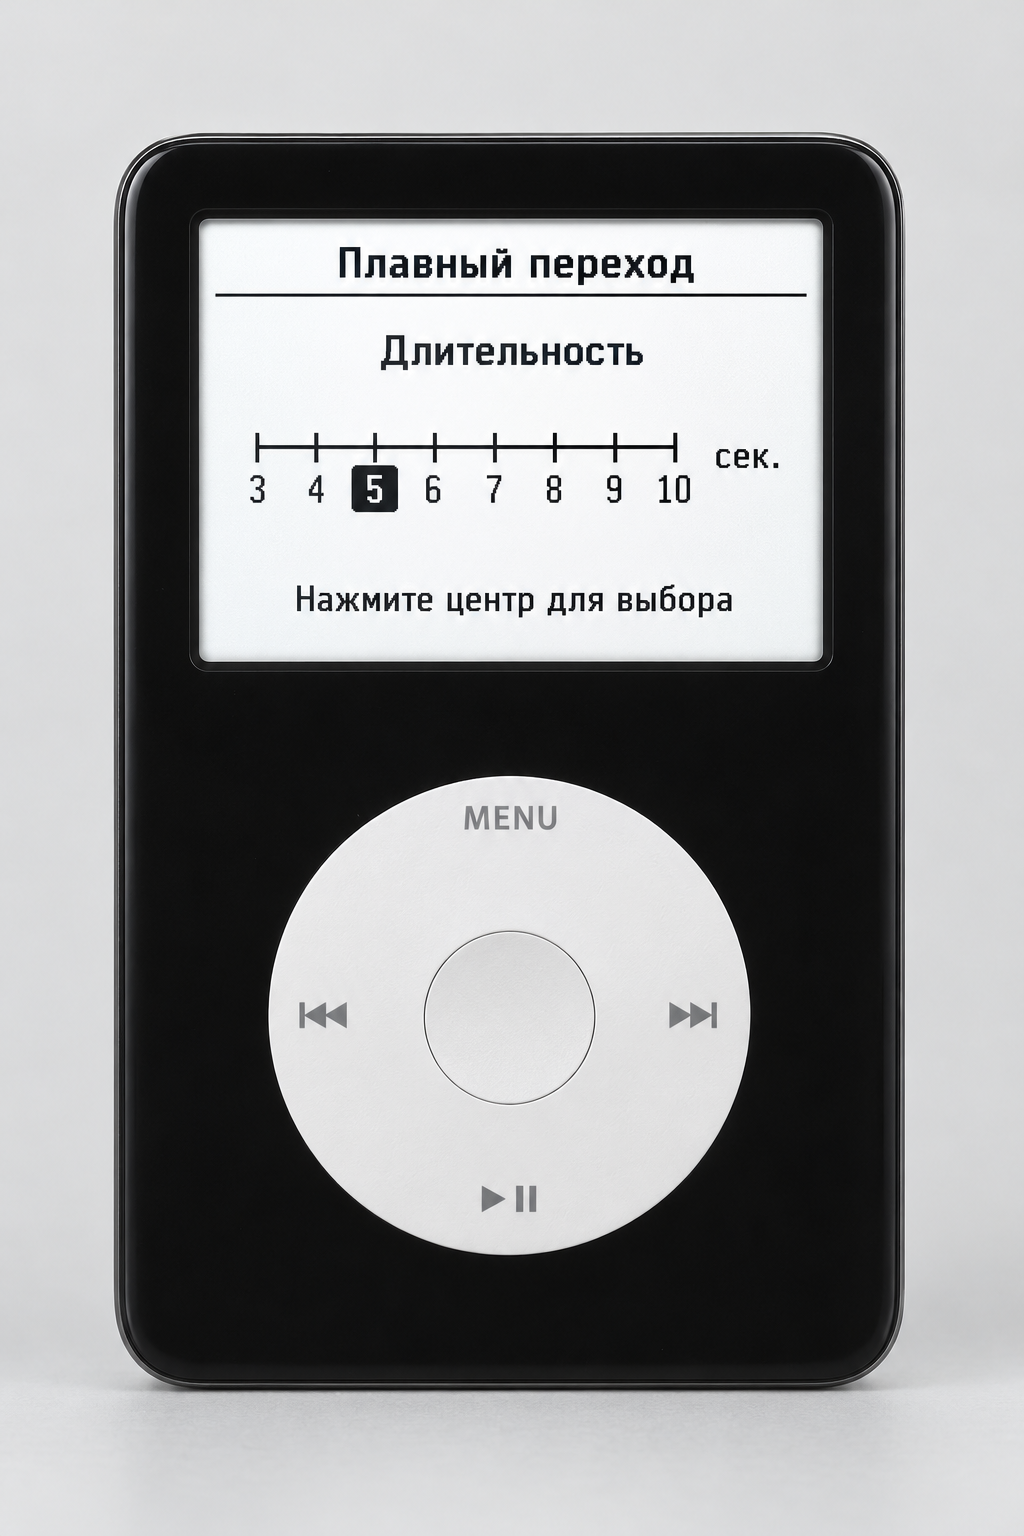
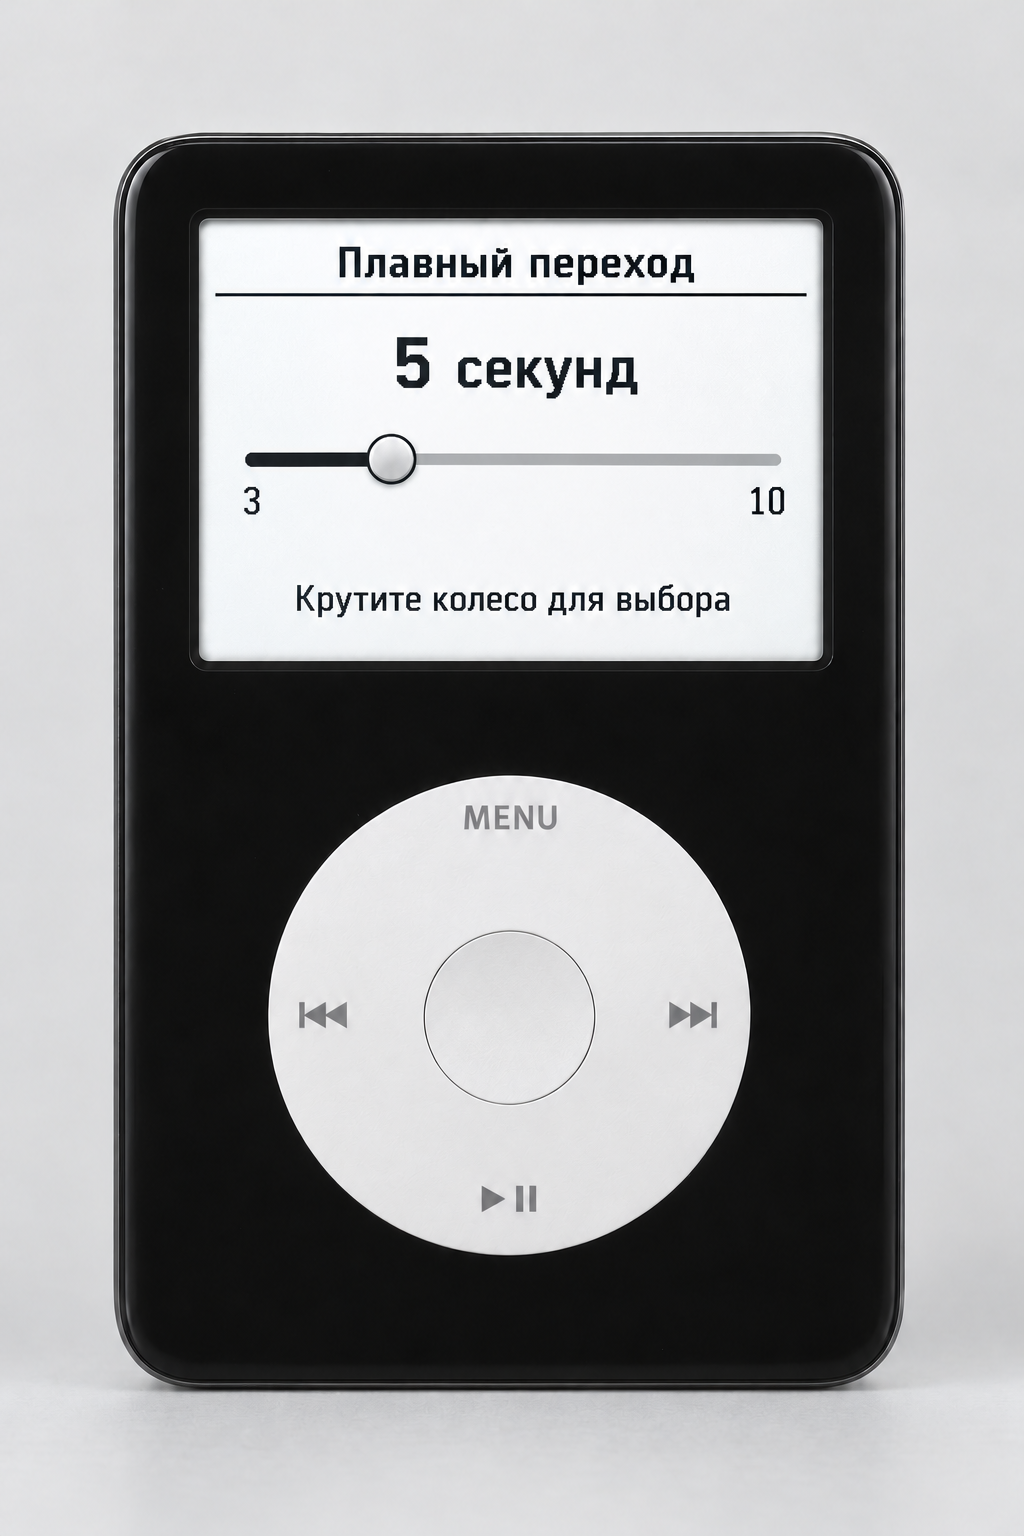
Use direct crossfade slider in click-wheel mockup

diff --git a/docs/UI_CONCEPT.md b/docs/UI_CONCEPT.md
@@ -5,9 +5,10 @@
 Это визуальный макет, а не снимок работающей прошивки. Он фиксирует согласованный вариант экрана для iPod Video 5.5G:
 
 - пункт Settings: «Плавный переход»;
-- шкала длительности: целые значения от 3 до 10 секунд;
-- поворот Click Wheel передвигает выделение на соседнее значение;
+- непрерывный горизонтальный ползунок с круглым бегунком и границами 3 и 10 секунд;
+- сверху отображается выбранная длительность; значения меняются целыми секундами;
+- поворот Click Wheel двигает бегунок по ползунку;
 - нажатие центральной кнопки сохраняет выбор;
 - MENU возвращает назад без изменения текущего значения.
 
-При реализации нужно сохранить штатный вид списка RetailOS и использовать существующие механизмы локализации и хранения настроек. Для макета выбрано значение 5 секунд; это только начальное состояние изображения, а не окончательное значение по умолчанию.
+При реализации нужно сохранить штатный вид RetailOS и использовать существующие механизмы локализации и хранения настроек. Для макета выбрано значение 5 секунд; это только начальное состояние изображения, а не окончательное значение по умолчанию.
